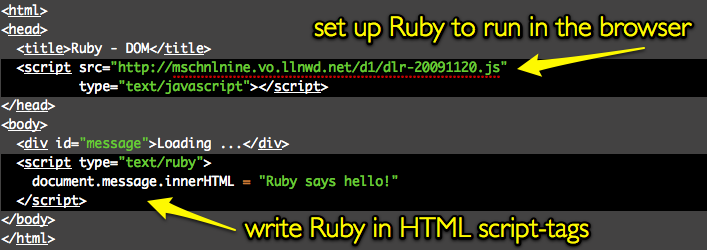
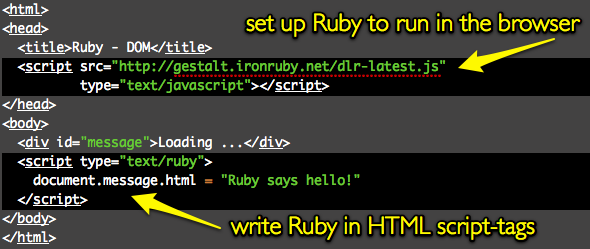
remove demo mode from console, and update first image of article to use gestalt.ironruby.net link

Changed region(s): [[0.0, 0.0, 1.0, 0.4498], [0.0, 0.4779, 1.0, 0.9839]]

diff --git a/ruby-console.html b/ruby-console.html
@@ -6,7 +6,7 @@
   </script>
   <script src="ironruby/dlr.js" type="text/javascript"></script>
 </head>
-<body id='demo'>
+<body>
   <div id="message">Loading ...</div>
   <script type="text/ruby">
     document.message.html = "Ruby says hello!"
